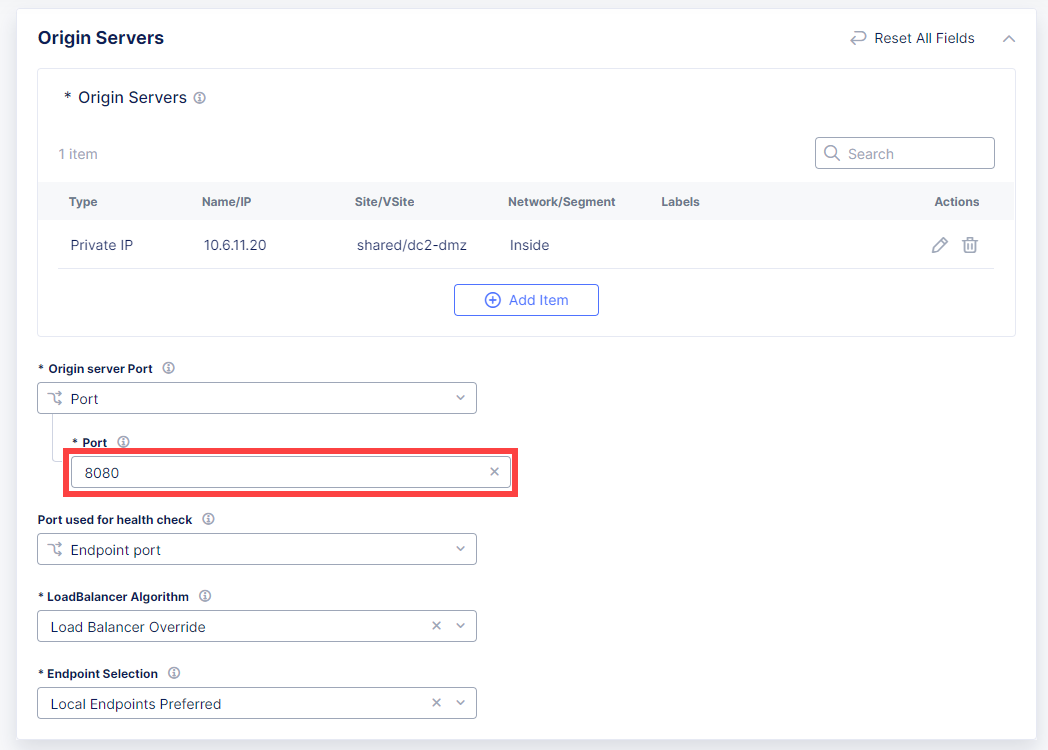
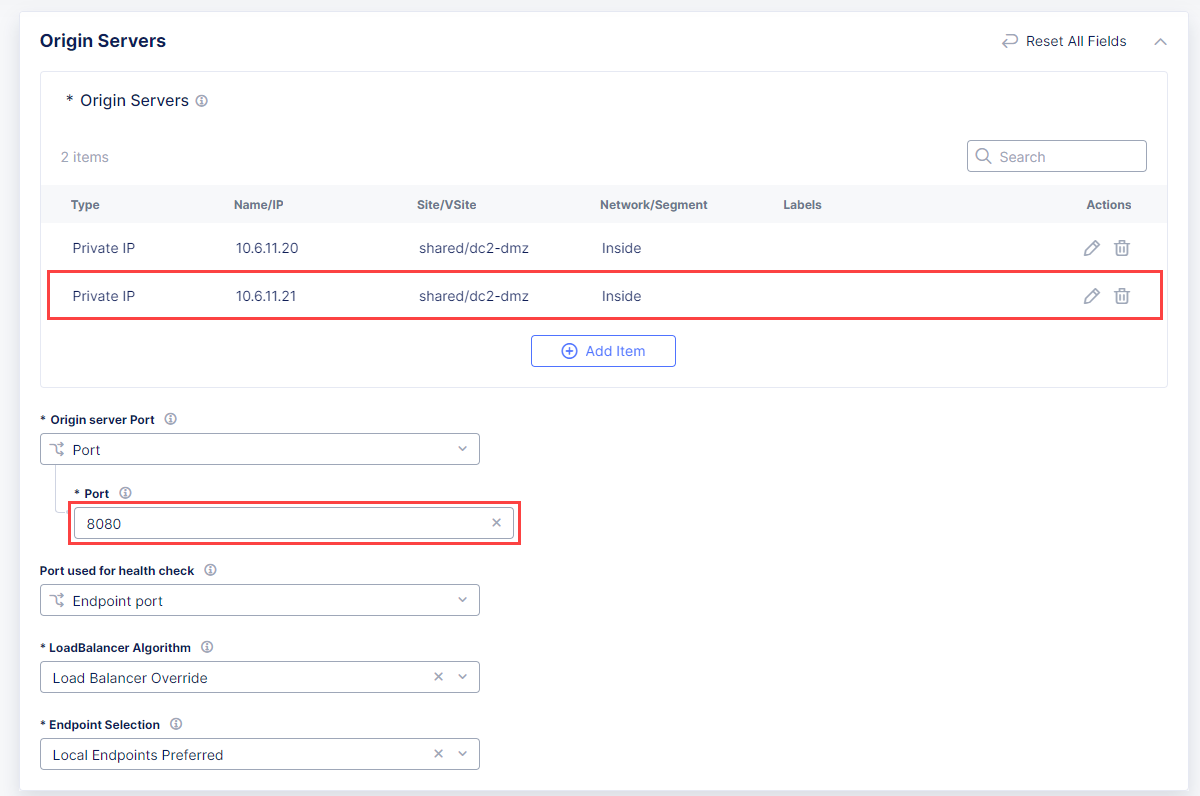
fixed origin pools

diff --git a/README.md b/README.md
@@ -12,11 +12,12 @@
   - [1.3 Deploy and Configure Big-IP on F5 rSeries](#13-deploy-and-configure-big-ip-on-f5-rseries)
     - [1.3.1 Deploy Big-IP on F5 rSeries](#131-deploy-big-ip-on-f5-rseries)
     - [1.3.2 Configure Big-IP on F5 rSeries](#132-configure-big-ip-on-f5-rseries)
-  - [1.4 Create Big-IP Virtual Server](#14-create-big-ip-virtual-server)
+  - [1.3.3 Create Big-IP Virtual Server](#133-create-big-ip-virtual-server)
 - [2. Configure Environment](#2-configure-environment)
   - [2.1 Deploy CE Tenant on F5 rSeries](#21-deploy-ce-tenant-on-f5-rseries)
     - [2.1.1 Create Secure Mesh Site in XC Cloud](#211-create-secure-mesh-site-in-xc-cloud)
     - [2.1.2 Deploy CE Tenant on F5 rSeries](#212-deploy-ce-tenant-on-f5-rseries)
+    - [2.1.2 Confgure Second rSeries device](#212-confgure-second-rseries-device)
   - [2.2 Configure XC Virtual Site](#22-configure-xc-virtual-site)
 - [3. Expose Application to the Internet](#3-expose-application-to-the-internet)
   - [3.1 Create HTTP Load Balancer](#31-create-http-load-balancer)
@@ -144,7 +145,7 @@ Click `Finished` as soon as the fields are filled out.
 
 ![rseries-bigip](./assets/bigip_config_selfip_create.png)
 
-## 1.4 Create Big-IP Virtual Server
+## 1.3.3 Create Big-IP Virtual Server
 
 In this section, we will configure the Big-IP Virtual Server to expose the application to the XC SLI network. We will create a pool with the application VM as a member and then create a Virtual Server to route the traffic to the pool.
 
@@ -259,6 +260,10 @@ Go back to the XC Cloud and navigate to the `Sites`. Wait until the site is depl
 
 ![rseries-sms](./assets/rseries-confirm.png)
 
+### 2.1.2 Confgure Second rSeries device
+
+Repeat the steps from the [1.3 Deploy and Configure Big-IP on F5 rSeries](#13-deploy-and-configure-big-ip-on-f5-rseries) section and from the [2.1 Deploy CE Tenant on F5 rSeries](#21-deploy-ce-tenant-on-f5-rseries) section to configure the second rSeries device.
+
 ## 2.2 Configure XC Virtual Site
 
 To simplify the management of the application, we will create a Virtual Site in the XC Cloud that will assign the Secure Mesh Site to the Virtual Site. This will allow us to access the application using the Virtual Site name and allow us to scale the application by adding more Secure Mesh Sites in the future.
@@ -272,7 +277,6 @@ Let's start with adding a virtual site. Back in the F5 Distributed Cloud Console
 In the opened form give virtual site a name that we specified as [label](#151-create-secure-mesh-site-in-xc-cloud) for Secure Mesh Sites. Then make sure to select the **CE** site type. After that add selector expression specifying its name as value and complete by clicking the **Save and Exit** button.
 
 ![Virtual Site](./assets/virtual_site_config.png)
-
 
 # 3. Expose Application to the Internet
 
@@ -314,6 +318,8 @@ Then click **Add Item** to add an origin server.
 Select **IP address of Origin Server on given Sites** as Origin Server type and type in the **10.5.11.20** private IP (your BigIP XC interface). Then in the drop-down menu select the [Virtual Site](#21-configure-xc-virtual-site) we created earlier. Complete the configuration by clicking the **Apply** button.
 
 ![HTTP LB](./assets/http_lb_pool_details.png)
+
+Configure the second origin server for the second BigIP instance in the same way. The IP address is **10.5.11.21**
 
 Type in the **8080** origin server port.
 
@@ -473,7 +479,7 @@ Finally, we will configure HTTP Load Balancer by creating the second origin pool
 
 ![rseris](./assets/diagram-dmz.png)
 
-This setup requires a second Data Center with the same configuration as the first one. Repeat the steps from the [1. Configure Environment](#1-configure-environment) section to create a second Data Center with the same components. Then create a Virtual Site for the second Data Center as described in the [2.1 Configure XC Virtual Site](#21-configure-xc-virtual-site) section.
+This setup requires a second Data Center with the same configuration as the first one. Repeat the steps from [1. Initial preparations](#1-initial-preparations) and [2. Configure Environment](#2-configure-environment) sections to create a second Data Center with the same components. Then create a Virtual Site for the second Data Center as described in the [2.1 Configure XC Virtual Site](#21-configure-xc-virtual-site) section.
 
 Once the second Data Center is ready, we can proceed with the configuration. Go to the F5 Distributed Cloud Console and select **Manage Configuration** in the service menu of the earlier [created HTTP Load Balancer](#21-create-http-load-balancer).
 
@@ -502,6 +508,8 @@ Then click **Add Item** to add an origin server.
 Select **IP address of Origin Server on given Sites** as Origin Server type and type in the **10.6.11.20** private IP (Your BigIP XC interface in the second DC). Then in the drop-down menu select the second created Virtual Site. Complete the configuration by clicking the **Apply** button.
 
 ![Second DC](./assets/dc2_configure_origin.png)
+
+Create a second origin server for the second BigIP instance. In our case, the IP address is ** **10.6.11.21**
 
 Type in the **8080** origin server port.
 
